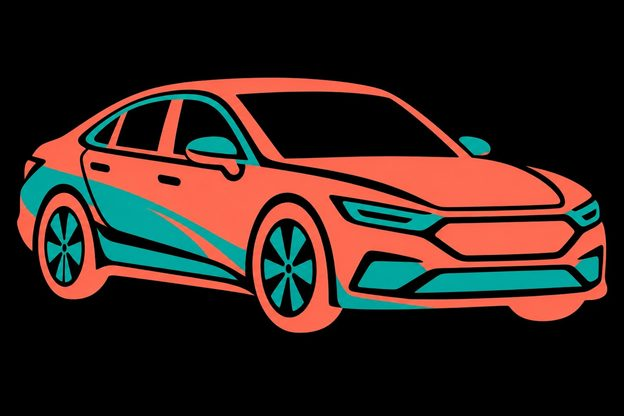
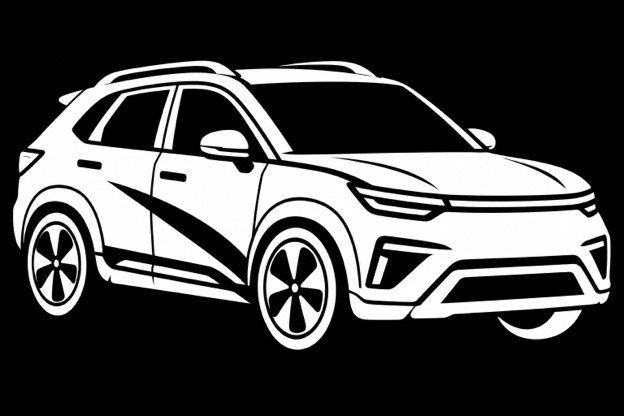
Veículos: silhuetas a preto e branco
Terceira troca do dia, a pedido do Simão: as ilustrações coral dão lugar
a silhuetas dele, sem texto nem logótipos — preto sobre branco no tema
claro, branco sobre preto no escuro. Reduzidas de 1536 × 1024 para
624 × 416, a mesma proporção, sem cortes.

Os originais sem uso (versões antigas dos veículos e capturas de
referência) saíram de desenho/imagens para uma pasta no Lixo; ficam só
os seis originais das imagens em uso. mobile/assets não tinha nada sem
uso.

diff --git a/mobile/src/dados/tiposDeVeiculo.js b/mobile/src/dados/tiposDeVeiculo.js
@@ -31,10 +31,11 @@ export const VEICULOS = {
     // As ilustrações do Simão, uma por tema: fundo branco puro de dia, preto
     // puro de noite. Ver veiculoFotoCaixa no ecrã inicial.
     //
-    // TROCADAS a 14/09/26 pelas ilustrações planas do Simão, em coral e teal,
-    // sem texto nem logótipos: as primeiras vinham da Internet (direito de
-    // autor de outros) e as seguintes pareciam modelos reais de fabricantes.
-    // "É melhor evitar do que curar." Os originais ficam em desenho/imagens.
+    // TROCADAS de novo a 14/09/26, à noite, pelas silhuetas do Simão a preto
+    // e branco, sem texto nem logótipos. Antes houve fotografias da Internet
+    // (direito de autor de outros), depois modelos que pareciam de fabricantes
+    // reais, depois as ilustrações coral. Os originais — só estes seis — ficam
+    // em desenho/imagens a 1536 × 1024; aqui vão reduzidos a 624 × 416.
     imagens: {
       claro: require('../../assets/veiculos/mota-claro.jpg'),
       escuro: require('../../assets/veiculos/mota-escuro.jpg'),
@@ -56,10 +57,11 @@ export const VEICULOS = {
     // As ilustrações do Simão, uma por tema: fundo branco puro de dia, preto
     // puro de noite. Ver veiculoFotoCaixa no ecrã inicial.
     //
-    // TROCADAS a 14/09/26 pelas ilustrações planas do Simão, em coral e teal,
-    // sem texto nem logótipos: as primeiras vinham da Internet (direito de
-    // autor de outros) e as seguintes pareciam modelos reais de fabricantes.
-    // "É melhor evitar do que curar." Os originais ficam em desenho/imagens.
+    // TROCADAS de novo a 14/09/26, à noite, pelas silhuetas do Simão a preto
+    // e branco, sem texto nem logótipos. Antes houve fotografias da Internet
+    // (direito de autor de outros), depois modelos que pareciam de fabricantes
+    // reais, depois as ilustrações coral. Os originais — só estes seis — ficam
+    // em desenho/imagens a 1536 × 1024; aqui vão reduzidos a 624 × 416.
     imagens: {
       claro: require('../../assets/veiculos/carro-claro.jpg'),
       escuro: require('../../assets/veiculos/carro-escuro.jpg'),
@@ -87,10 +89,11 @@ export const VEICULOS = {
     // As ilustrações do Simão, uma por tema: fundo branco puro de dia, preto
     // puro de noite. Ver veiculoFotoCaixa no ecrã inicial.
     //
-    // TROCADAS a 14/09/26 pelas ilustrações planas do Simão, em coral e teal,
-    // sem texto nem logótipos: as primeiras vinham da Internet (direito de
-    // autor de outros) e as seguintes pareciam modelos reais de fabricantes.
-    // "É melhor evitar do que curar." Os originais ficam em desenho/imagens.
+    // TROCADAS de novo a 14/09/26, à noite, pelas silhuetas do Simão a preto
+    // e branco, sem texto nem logótipos. Antes houve fotografias da Internet
+    // (direito de autor de outros), depois modelos que pareciam de fabricantes
+    // reais, depois as ilustrações coral. Os originais — só estes seis — ficam
+    // em desenho/imagens a 1536 × 1024; aqui vão reduzidos a 624 × 416.
     imagens: {
       claro: require('../../assets/veiculos/carry-claro.jpg'),
       escuro: require('../../assets/veiculos/carry-escuro.jpg'),

diff --git a/mobile/src/design/SISTEMA.md b/mobile/src/design/SISTEMA.md
@@ -2,7 +2,9 @@
 
 Referência de desenvolvimento da TimorgianaRide. Compilado a 13/09/2026 a partir
 das três referências do Simão (`desenho/imagens/Visualização …`): o registo do
-passageiro, o registo do motorista e o ecrã inicial.
+passageiro, o registo do motorista e o ecrã inicial. As capturas de referência
+saíram da pasta a 14/09/2026, com as outras imagens sem uso; o que delas
+ficou está neste documento.
 
 **Regra de ouro:** nenhum ecrã escolhe cores, tamanhos ou raios por conta
 própria. Tudo sai daqui — dos tokens em `theme.js` e `tipografia.js`, e dos
@@ -108,7 +110,7 @@ baixo, folhas). Três e não mais. Não existe `elevacao.cartao`.
 `Button` tem também **`perigoSuave`** (fundo `tintaPerigo`, texto `danger`): recusar sem gritar ao lado de um botão cheio.
 
 ### Imagens de veículos
-Desde 14/09/2026 são as ilustrações planas do Simão, em coral e teal, sem texto nem
+Desde 14/09/2026 (à noite) são as silhuetas do Simão, a preto e branco, sem texto nem
 logótipos (as anteriores vinham da Internet; as seguintes pareciam modelos reais). 624 px.
 `assets/veiculos/{mota,carro,carry}-{claro,escuro}.jpg` — fundo branco puro de
 dia, preto puro de noite. Ficam sempre num quadrado da **cor do fundo delas**
